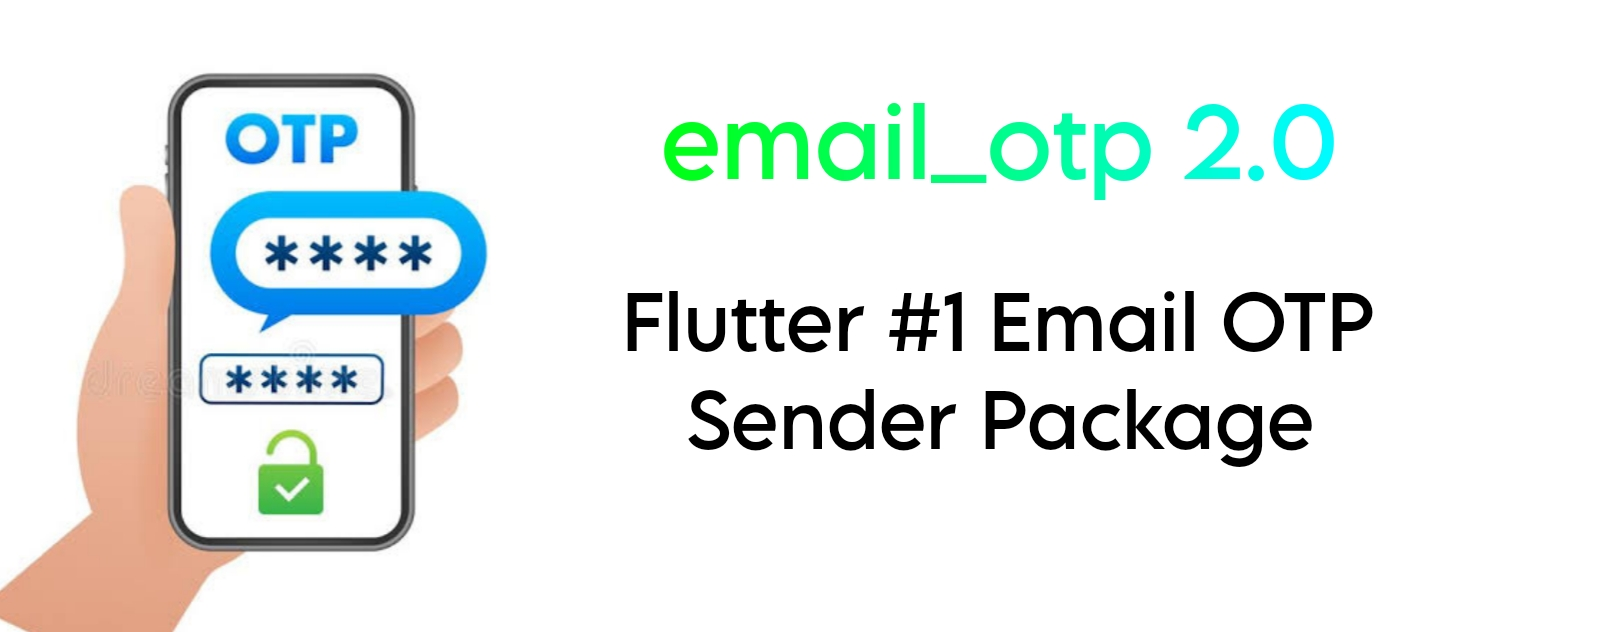
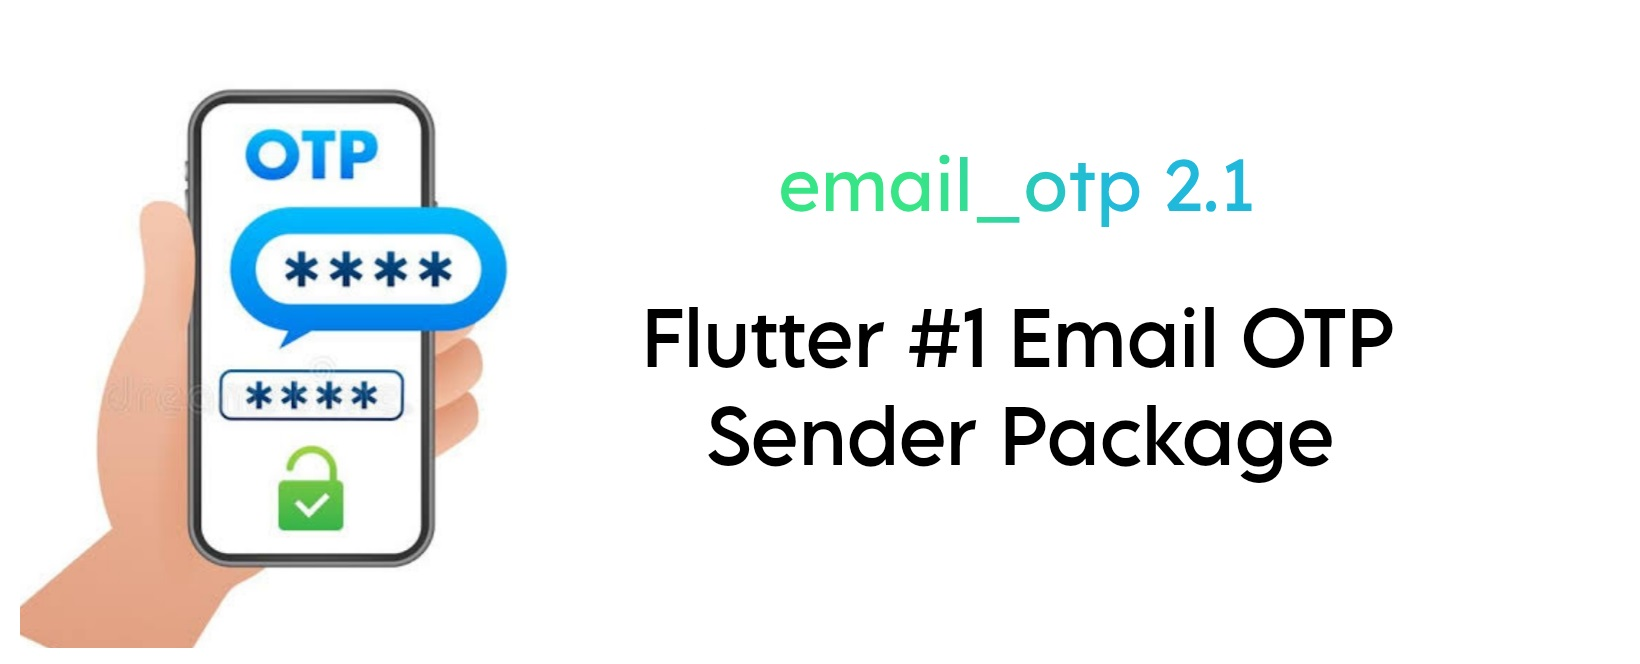
bug fixed, new method added

diff --git a/lib/email_otp.dart b/lib/email_otp.dart
@@ -42,6 +42,9 @@ class EmailOTP {
   //SMTP Port
   int? _port;
 
+  //Custom HTML Template
+  String? _template;
+
     //Function to set custom SMTP Configuration
     setSMTP({host, auth, username, password, secure, port}){
       _host = host;
@@ -71,6 +74,11 @@ class EmailOTP {
       }
     }
 
+    ///Function use to use custom html template
+    setTemplate({render}) {
+      _template = render;
+    }
+
     ///Function will return true / false
     sendOTP() async {
     var url = Uri.parse('https://flutter.rohitchouhan.com/email-otpV2/v2.php');
@@ -80,6 +88,7 @@ class EmailOTP {
       "user_email": _userEmail,
       "otp_length": _otpLength,
       "type": _type,
+      "template":_template,
       "smtp_host":_host,
       "smtp_auth":_auth,
       "smtp_username":_username,
@@ -114,10 +123,8 @@ class EmailOTP {
   ///Function will return true / false
   verifyOTP({otp}) {
     if (_getOTP == otp) {
-      print("OTP has been verified! ✅");
       return true;
     } else {
-      print("OTP is invalid ❌");
       return false;
     }
   }

diff --git a/README.md b/README.md
@@ -1,25 +1,45 @@
-A fast & simple email authentication OTP sender and verification flutter package. It generates an OTP on the recipient's email which can be used to verify their identity. 
+# Welcome to Email OTP: Your Fast and Simple Email Authentication OTP Solution!
 
-<p align="center"><img src="https://raw.githubusercontent.com/rohit-chouhan/email_otp/main/banner.jpg"/></p>
+Email OTP is a Flutter package designed to simplify email authentication through one-time passwords (OTPs). With Email OTP, you can effortlessly generate OTPs and send them to your users' email addresses, ensuring secure identity verification.
+
+![Email OTP Banner](https://raw.githubusercontent.com/rohit-chouhan/email_otp/main/banner.jpg)
 
 [![rohit-chouhan](https://user-images.githubusercontent.com/82075108/182797964-a92e0c59-b9ef-432d-92af-63b6475a4b1c.svg)](https://www.github.com/rohit-chouhan)
-_[![sponsor](https://user-images.githubusercontent.com/82075108/182797969-11208ddc-b84c-4618-8534-18388d24ac18.svg)](https://github.com/sponsors/rohit-chouhan)
+[![sponsor](https://user-images.githubusercontent.com/82075108/182797969-11208ddc-b84c-4618-8534-18388d24ac18.svg)](https://github.com/sponsors/rohit-chouhan)
 
+## Table of Contents
+- [Getting Started](#getting-started)
+- [Usage](#usage)
+- [Configuration](#configuration)
+  - [Customizing Email Templates (Optional)](#customizing-email-templates-optional)
+  - [Configuring Custom SMTP (Optional)](#configuring-custom-smtp-optional)
+- [Sending and Verifying OTPs](#sending-and-verifying-otps)
+- [Complete Example](#complete-example)
+- [Reporting Bugs or Issues](#reporting-bugs-or-issues)
+- [Copyright and License](#copyright-and-license)
 
-#### Usage
-```
+## Getting Started
+
+To get started, import the `email_otp` package in your Flutter project:
+
+```dart
 import 'package:email_otp/email_otp.dart';
 ```
-#### Methods
-⭐ **Class Initialization**
-```dart
- EmailOTP myauth = EmailOTP();
-```
-⭐ **setConfig()**
-this function will config your OTP authentication.
+
+## Usage
+
+Initialize the EmailOTP class:
 
 ```dart
-myauth.setConfig(
+EmailOTP myAuth = EmailOTP();
+```
+
+## Configuration
+
+Configure your OTP authentication settings using the `setConfig` method:
+
+```dart
+myAuth.setConfig(
     appEmail: "me@rohitchouhan.com",
     appName: "Email OTP",
     userEmail: email.text,
@@ -27,18 +47,36 @@ myauth.setConfig(
     otpType: OTPType.digitsOnly
 );
 ```
-1. `appEmail` is your personal or company email, so client we see this mail when they receive OTP.
-2. `appName` is your app name, client will received mail with this name.
-3. `userEmail` property where OTP need to sent.
-4. `otpLength` is the length of OTP.
-5. `otpType` OTPType.digitsOnly, OTPType.stringOnly, OTPType.mixed
 
-⭐ **setSMTP()** (new)
+1. `appEmail`: Your personal or company email address, visible to clients when they receive OTPs.
+2. `appName`: Your app's name, displayed to clients in the email.
+3. `userEmail`: The recipient's email address where the OTP needs to be sent.
+4. `otpLength`: The length of the OTP (e.g., 6 digits).
+5. `otpType`: Choose from `OTPType.digitsOnly`, `OTPType.stringOnly`, or `OTPType.mixed` for different OTP formats.
 
-this function will config your SMTP to send OTP from custom email address, make sure your SMTP credentials are correct, test your SMTP from www.smtper.net
+### Customizing Email Templates (Optional)
+
+You can customize your email template using the `setTemplate` method. If not used, the default template provided by Email OTP will be used.
 
 ```dart
-myauth.setSMTP(
+var template = 'YOUR HTML CODE HERE';
+myAuth.setTemplate(
+    render: template 
+);
+```
+
+In your HTML, use placeholders like `{{app_name}}` and `{{otp}}` to display the app name and OTP. For example:
+
+```
+Thank you for choosing {{app_name}}. Your OTP is {{otp}}.
+```
+
+### Configuring Custom SMTP (Optional)
+
+Configure your SMTP settings using the `setSMTP` method if you want to send OTPs from a custom email address. Make sure your SMTP credentials are correct. Test your SMTP configuration at [smtper.net](https://www.smtper.net).
+
+```dart
+myAuth.setSMTP(
     host: "smtp.rohitchouhan.com",
     auth: true,
     username: "email-otp@rohitchouhan.com",
@@ -47,33 +85,42 @@ myauth.setSMTP(
     port: 576
 );
 ```
-1. `host` is your SMTP Hostname
-2. `auth` is your SMTP Email authetication required or not
-3. `username` is your SMTP Email Address
-4. `password` is your SMTP Email Password
-5. `secure` TLS or SSL
-6. `port` is port number of your SMTP Email Server
 
-⭐ **sendOTP()**
-this function will send OTP, and return boolean
+1. `host`: Your SMTP hostname.
+2. `auth`: Boolean (true/false) indicating if SMTP authentication is required.
+3. `username`: Your SMTP email address.
+4. `password`: Your SMTP email password.
+5. `secure`: Choose from "TLS" or "SSL" for secure connections.
+6. `port`: Port number of your SMTP email server.
+
+## Sending and Verifying OTPs
+
+Use the following methods to send and verify OTPs:
+
+### Sending OTP
+
 ```dart
-await myauth.sendOTP();
+await myAuth.sendOTP();
 ```
-⭐ **verifyOTP()**
-this function will verify OTP, and return boolean. this method must have one parameter for OTP, which is enter by client.
+
+### Verifying OTP
+
 ```dart
-var inputOTP = 987654; //which is entered by client, after receive mail
-await myauth.verifyOTP(
-  otp: inputOTP
+var inputOTP = 987654; // OTP entered by the client after receiving the email
+await myAuth.verifyOTP(
+    otp: inputOTP
 );
 ```
-#### See Complete Example
-Code : [https://pub.dev/packages/email_otp/example](https://pub.dev/packages/email_otp/example "https://pub.dev/packages/email_otp/example")
 
-# Report bugs or issues
+## Complete Example
 
-You are welcome to open a _[ticket](https://github.com/rohit-chouhan/email_otp/issues)_ on github if any problems arise. New ideas are always welcome.
+Find a complete example in the [Email OTP package documentation](https://pub.dev/packages/email_otp/example).
 
-# Copyright and License
+## Reporting Bugs or Issues
 
-> Copyright © 2023 **[Rohit Chouhan](https://rohitchouhan.com)**. Licensed under the _[MIT LICENSE](https://github.com/rohit-chouhan/otp/blob/main/LICENSE)_.
+Feel free to open a [ticket](https://github.com/rohit-chouhan/email_otp/issues) on GitHub if you encounter any problems. We also welcome new ideas and suggestions.
+
+## Copyright and License
+
+Copyright © 2023 [Rohit Chouhan](https://rohitchouhan.com). Licensed under the [MIT LICENSE](https://github.com/rohit-chouhan/otp/blob/main/LICENSE).
+

diff --git a/CHANGELOG.md b/CHANGELOG.md
@@ -24,3 +24,12 @@
 * bug fixed
 * new cool email template
 * new feature added for custom SMTP
+
+## 2.0.1
+
+* bug fixed
+
+## 2.1.0
+
+* bug fixed
+* Customize Template [added]
